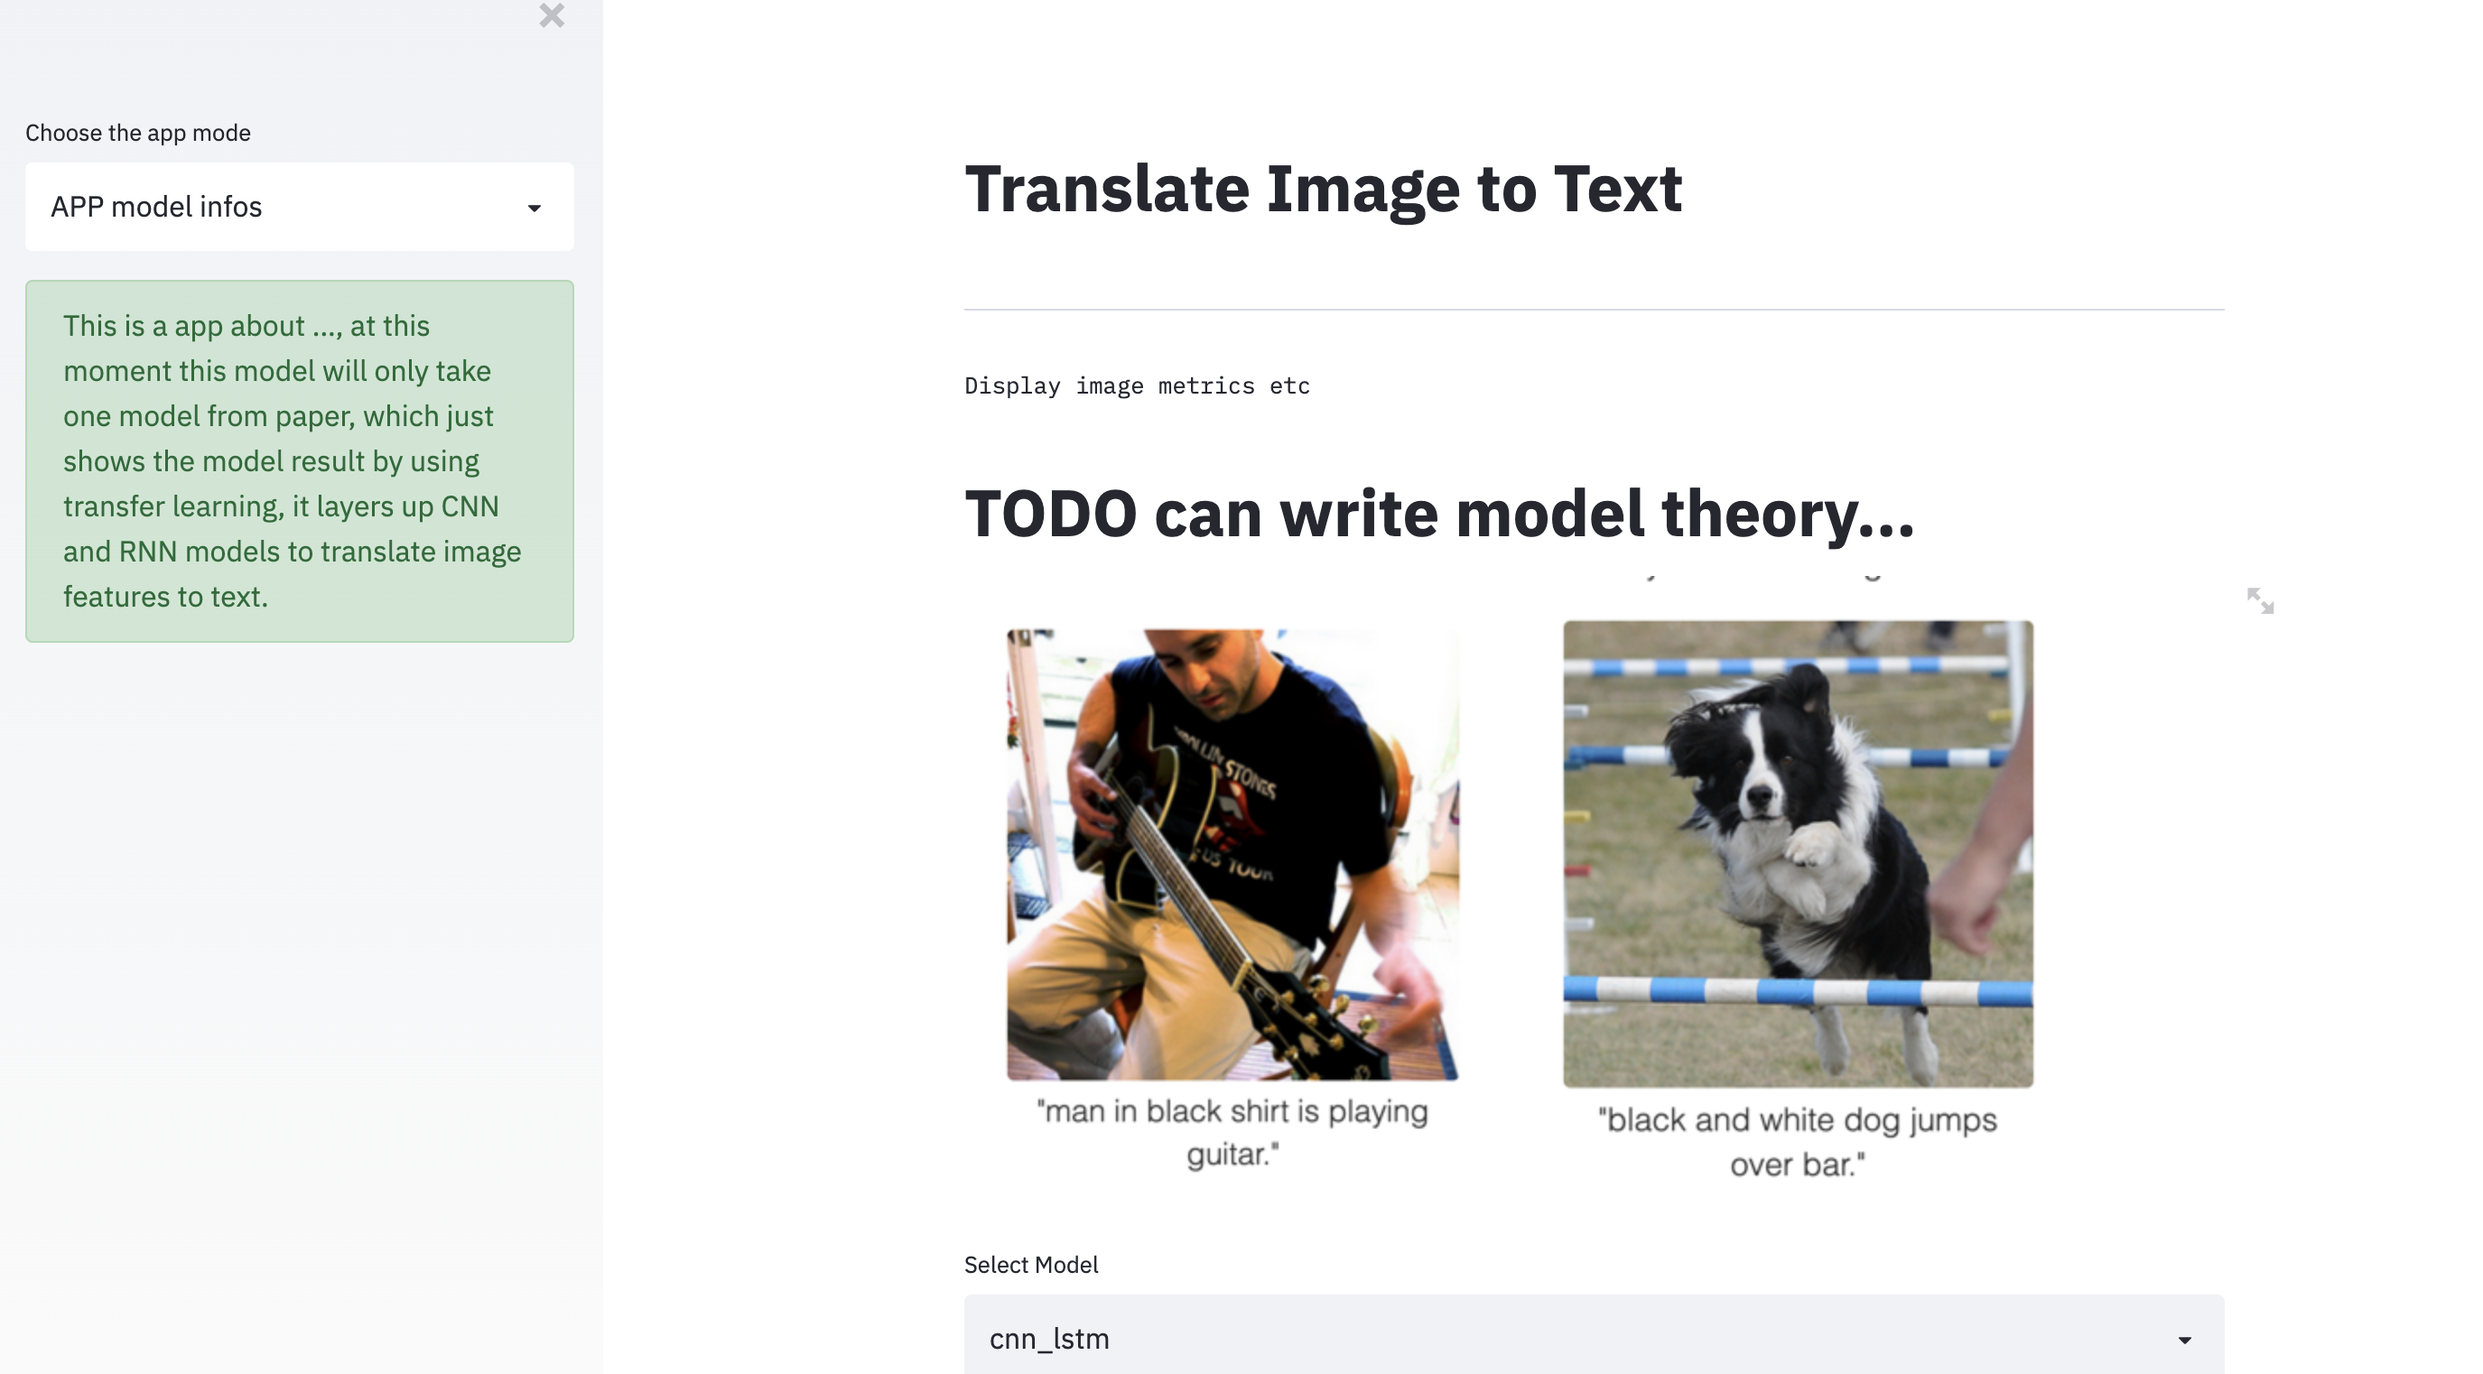
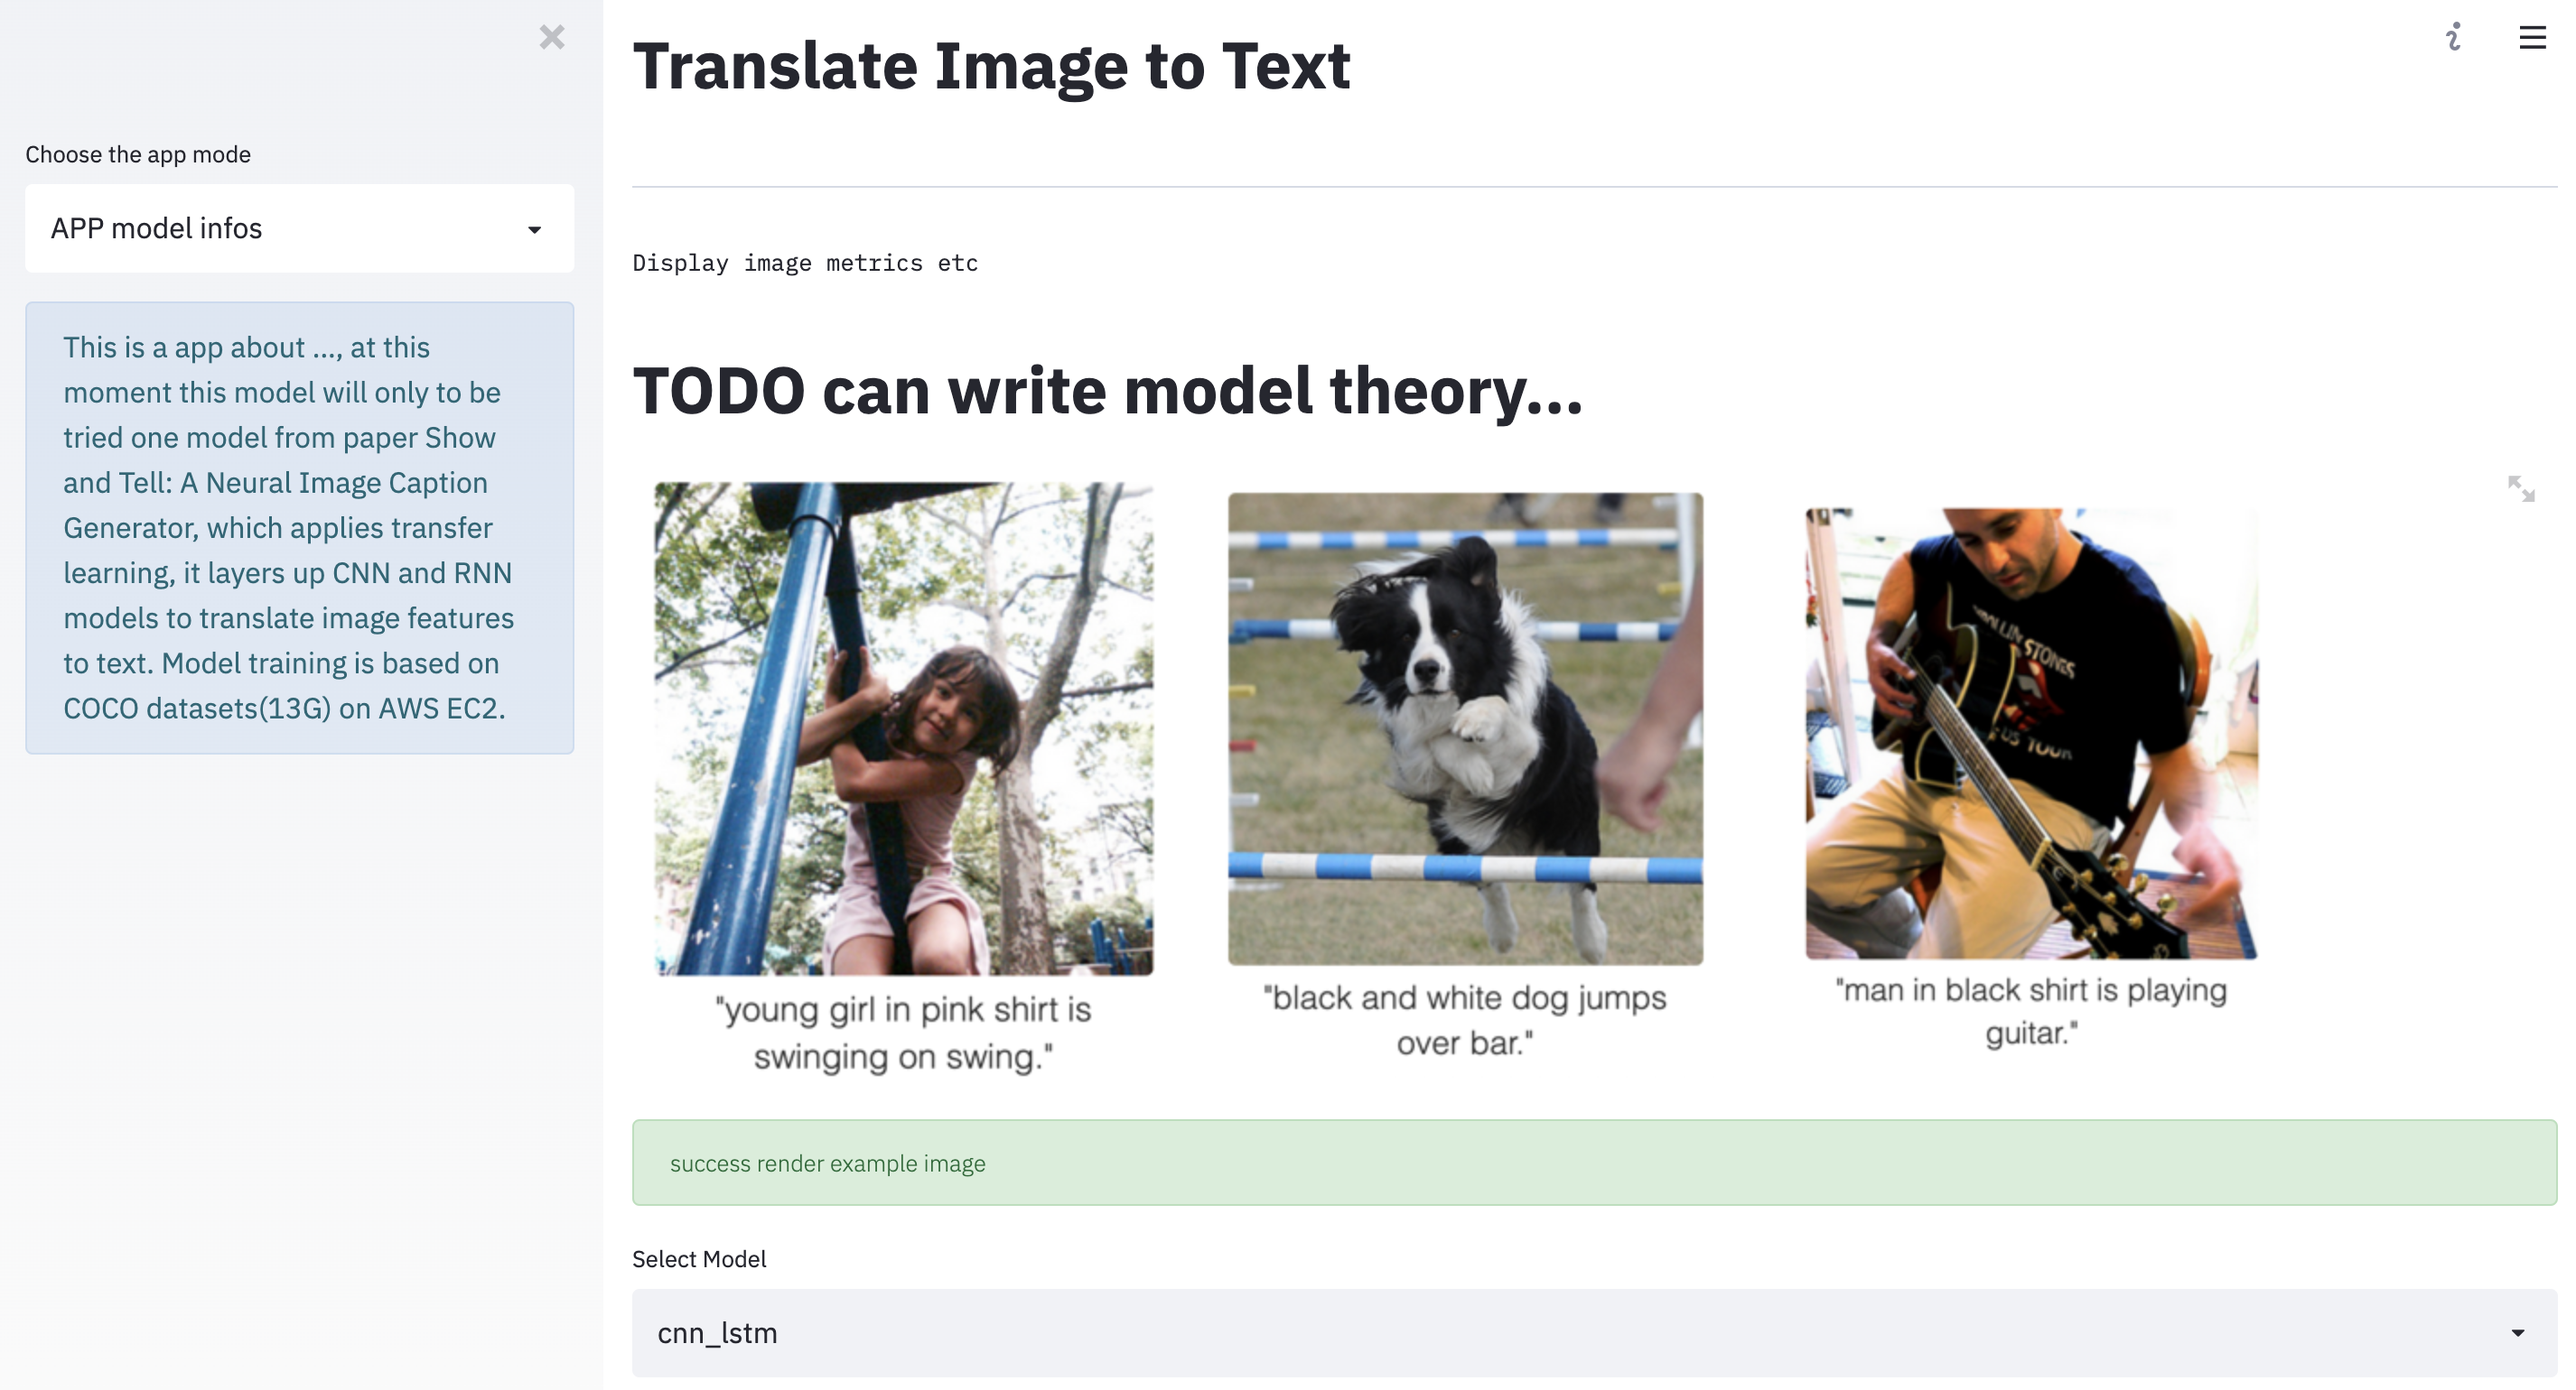
add

diff --git a/app/app.py b/app/app.py
@@ -10,11 +10,19 @@ import datetime,time
 
 WIDTH = 300
 HEIGHT = 300
+IMG_PATH = "imgs"
+URI= 'https://raw.githubusercontent.com/Chloejay/image_caption_app/master/app/'
+
 st.set_option("deprecation.showfileUploaderEncoding", False)
+st.beta_set_page_config( page_title="Image translation app",
+                        page_icon="",
+                        layout="wide",
+                        initial_sidebar_state="expanded",
+                        )
     
 @st.cache(show_spinner = False)
 def get_file_content_as_string(app_file_path):
-    url = 'https://raw.githubusercontent.com/Chloejay/image_caption_app/master/app/' + app_file_path
+    url = URI + app_file_path
     response = urllib.request.urlopen(url)
     return response.read().decode("utf-8")
 
@@ -27,33 +35,37 @@ def render_default():
     st.text("Display image metrics etc")
 
 def get_time():
-    st.sidebar.date_input("Today is",datetime.datetime.now())
+    st.sidebar.date_input("Today is", datetime.datetime.now())
 
 def upload_img():
-    uploaded_file = st.file_uploader("Please choose an image to upload...", type=["jpeg", "jpg"], multiple_files=True)
+    uploaded_file = st.file_uploader("Please choose an image to upload...", type= ["jpeg", "jpg"], multiple_files= True)
     if uploaded_file:
         img = np.array(Image.open(uploaded_file))
-        st.image(img, width = WIDTH, height = HEIGHT, caption="Image") #use_column_width=True
+        st.image(img, width = WIDTH, height = HEIGHT, caption = "Image", use_column_width = True) 
         st.success("###### success load image")
         st.write("")
         st.write("Generate text from image features...")
         # TODO
 
-def load_readme():
+def load_readme(img_path):
     """
-    add some model paper results here for explanation.
+    add some model paper results here for explantion.
     """
     st.title("TODO can write model theory...")
-    img1= Image.open("imgs/img1.png")
-    img2= Image.open("imgs/img2.png")
-    st.image([img1, img2], width = WIDTH)
+    # pbar= st.progress(0)
+    all_imgs = list()
+    for i in [x for x in os.listdir(img_path) if x.startswith("img")]:
+        img = Image.open(os.path.join(img_path, i))
+        all_imgs.append(img)
+    st.image(all_imgs, width = WIDTH)
+    st.success("###### success render example image")
+    # pbar.progress(p+1)
     
 def load_tensorboard():
     st.markdown("## below is the model result from the tensorboard")
     with st.echo():
 	    import pandas as pd 
 	    df = pd.DataFrame()
-    
 
 # app 
 def main():
@@ -62,11 +74,11 @@ def main():
                                                            "Show the source code"])
 
     if app_mode == "APP model infos":
-        st.sidebar.success("This is a app about ..., at this moment this model will only take one model from paper,\
-                           which just shows the model result by using transfer learning, it layers up CNN and \
-                               RNN models to translate image features to text.")
+        st.sidebar.info("This is a app about ..., at this moment this model will only to be tried one model from paper\
+            Show and Tell: A Neural Image Caption Generator, which applies transfer learning, \
+            it layers up CNN and RNN models to translate image features to text. Model training is based on COCO datasets(13G) on AWS EC2.")
         render_default()
-        load_readme()
+        load_readme(IMG_PATH)
 
     elif app_mode == "Show the source code":
         st.sidebar.code(get_file_content_as_string("app.py"))
@@ -79,13 +91,15 @@ def main():
         render_default()
         run_the_app()
         upload_img()
-
-
-    # have multiply models to be selected
+    
+    # placeholder st.empty() to switch with text or image.
+    
+    # to have multiply models to be selected
     # TODO get one more model
     models = ["cnn_lstm"]
     model_choice = st.selectbox("Select Model", models)
-
+    st.balloons()
+    
     @st.cache
     def load_model(model_file):
         loaded_model = joblib.load(open(os.path.join(model_file), "rb"))
@@ -97,6 +111,11 @@ def main():
         prediction = predictor.predict(vect_text)
         st.write(prediction)
 
-
+    if st.button("Translate"):
+        run_model()
+    else:
+        run_inference_result()
+    
+    
 if __name__ == "__main__":
     main()
